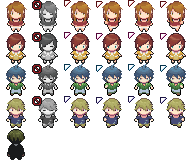
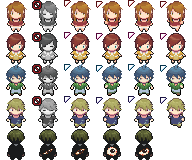
鬼の移動アニメーション追加

diff --git a/gameassets/main.js b/gameassets/main.js
@@ -29,7 +29,7 @@ window.onload = function(){
     }
     var playerList = [demon];
     var movingCharacter = demon;
-    core.fps = 15;
+    core.fps = 10;
     var left = ( window.innerWidth - ( core.width * core.scale ) ) / 2;
     $('#enchant-stage').css({
         "position":"absolute",
@@ -260,6 +260,8 @@ window.onload = function(){
         var createDemonPhaseScene = function(){
             sceneNumber = 3;
             turn++;
+            demon.sp.frame = [24,25,26,27,27,27,27,27,27,27,27,27,27,28,26,25,24,24,24,24];
+            demon.top.firstChild.frame = [24,25,26,27,27,27,27,27,27,27,27,27,27,28,26,25,24,24,24,24];
             var scene = new Scene();
             scene.addChild(gameBackgroundImg);
             var captionLabel = new Label();
@@ -283,6 +285,8 @@ window.onload = function(){
             toStudentButton.y = 17;
             scene.addChild(toStudentButton);
             toStudentButton.on('touchstart', function(){
+                demon.sp.frame = 24;
+                demon.top.firstChild.frame = 24;
                 core.replaceScene(createStudentPhaseScene());
             });
             scene.addChild(selectFrame);
